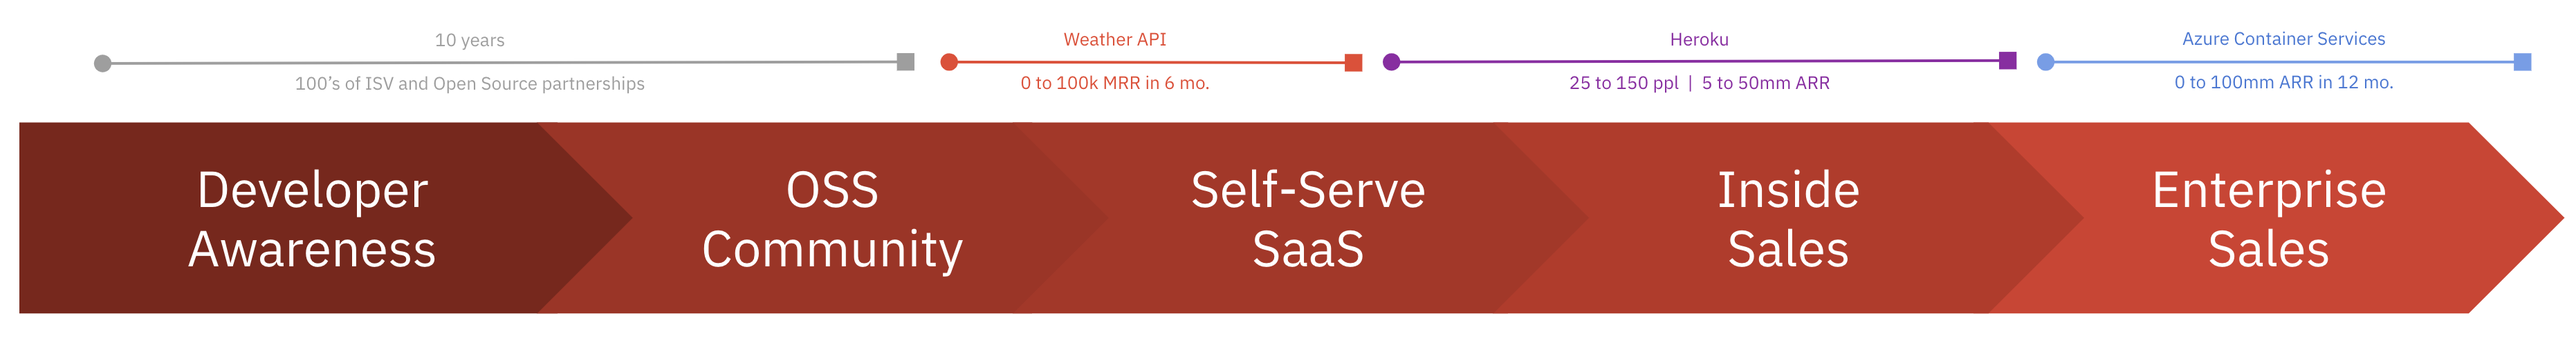
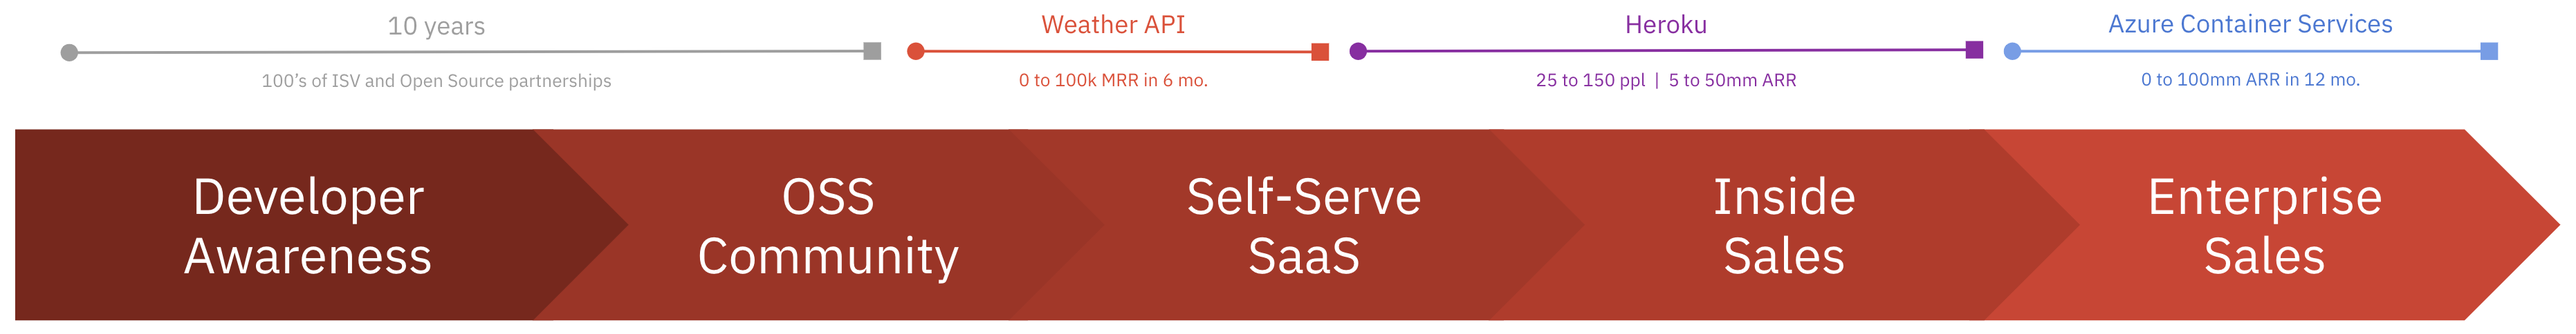
content: add product roadmap

diff --git a/src/content/learn/blog/zero_ipo.md b/src/content/learn/blog/zero_ipo.md
@@ -171,7 +171,7 @@ What’s more interesting, at the scale of Enterprise sales, is the number of no
 
 I love maps. In a previous life I was a navigator. [True story]
 
-All maps have the same problem. They are two dimensional, and we live in a multidimensional world. This is why cartographers have invented hundreds of ‘projections’ of our word.
+All maps have the same problem. They are two dimensional, and we live in a multidimensional world. This is why cartographers have invented hundreds of ‘projections’ of our world.
 
 Navigators use a projection called ‘mercator.’ This projection has the benefit of making straight lines between two points. This comes at the expense of distorting scale on the north-south axis. The map I created above is a mercator projection where our journey from Zero-to-IPO is a straight line. But there are plenty of other dimensions we still need to consider to get a complete picture.
 
@@ -222,6 +222,25 @@ Ockam is a deep tech company. It takes exceptional people to write the code that
 Here’s an example for how this has played out over the past 10 months; We are a 6 person team. We’ve received 1800 resumes, and we’ve conducted about 250 interviews over that time. ‘High performance team’ is one of our values, and we live it as a virtue. It’s something we can not compromise.
 
 Fortunately we’ve [built a team of investors](https://www.ockam.io/learn/blog/ockam_raises_seed_round/) that know how to build for a grand vision of the future by solving exceptionally complex problems with world class teams.
+
+
+## The ‘product roadmap' projection
+
+Ockam is a product company.
+
+At a high level, I think of our product roadmap in the following phases:
+
+![Ockam's product roadmap](./assets/product.png)
+
+Content is a product. I think of the pixels on this website and in GitHub as part of our product suite. All of it is focused on educating and informing our community of builders on topics related to Ockam's vision to add trust to every device, every cloud service, everywhere.
+
+We love tools, and we know that you do too. All builders do! Ockam's tools empower developers to do complex things, simply. We think of our SDKs, binaries, application interfaces, and partner integrations as part of our tool set.
+
+Ockam's services simplify deployment for your production environments. You have products to build, and you don't want to worry about deploying infrastructure. That's our job!
+
+At enterprise scale, Ockam becomes an interoperable architecture for universal trust between any device or cloud service anywhere. This is what we call the Ockam Platform.
+
+
 
 # How other frameworks map to ours
 
